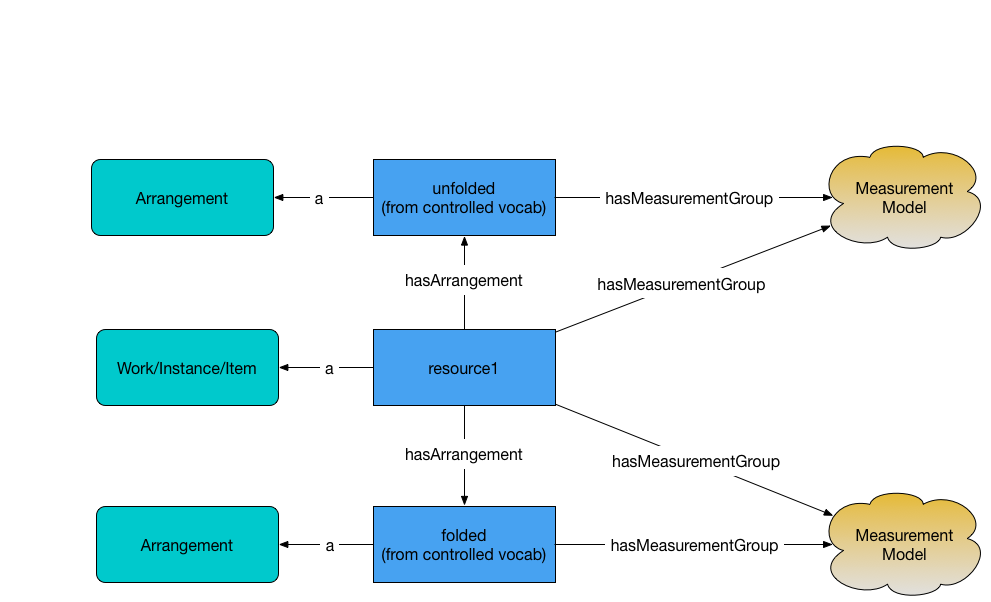
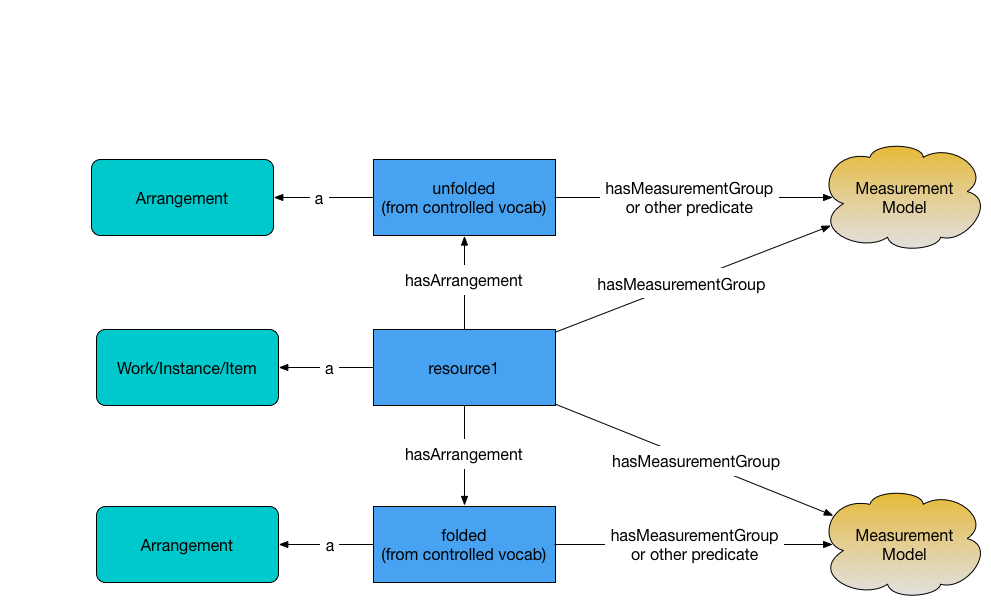
Modify predicates on png

Changed region(s): [[0.6054, 0.8671, 0.7871, 0.9269], [0.6054, 0.299, 0.7871, 0.3588]]

diff --git a/modeling_recommendations/measurements.md b/modeling_recommendations/measurements.md
@@ -254,7 +254,7 @@ Whether or not the model is used in this way in our descriptions is an implement
 * **Measurements of specific arrangements of a resource.** As illustrated in Diagrams [5](#diagram-5) and [6](#diagram-6), when a MeasurementGroup applies to a specific arrangement of a resource, the model proposes that it
 is attached directly to the Arrangement and only indirectly to the resource itself. This creates an asymmetry between this and other scenarios, where the predicates hasMeasurementGroup/isMeasurementGroupOf link the MeasurementGroup
 directly to the Item, Instance, or other resource; this in turn results in non-uniform querying of these scenarios. One might propose an alternative model in which the MeasurementGroup is directly attached to the resource, 
-as in other cases, and linked to the Arrangement via some other suitable predicate with the semantics "measures arrangement of."  However, the Arrangement nevertheless _does_ need to attach directly to the resource, since it is a
+as in other cases, and linked to the Arrangement, either using hasMeasurementGroup again, or via some other suitable predicate with the semantics "measures arrangement of."  However, the Arrangement nevertheless _does_ need to attach directly to the resource, since it is a
 descriptor of the resource itself independent of any measurements. One could contemplate a triangular model in which each resource attaches directly (but redundantly) to _both_ of the others, as in [Diagram 7](#diagram-7). The larger research
 question is whether introducing redundancy into a model for the sake of maintaining uniform modeling and query patterns is preferable to maintaing non-uniform models to avoid redundancy, noting that redundancy creates data maintenance 
 problems.
